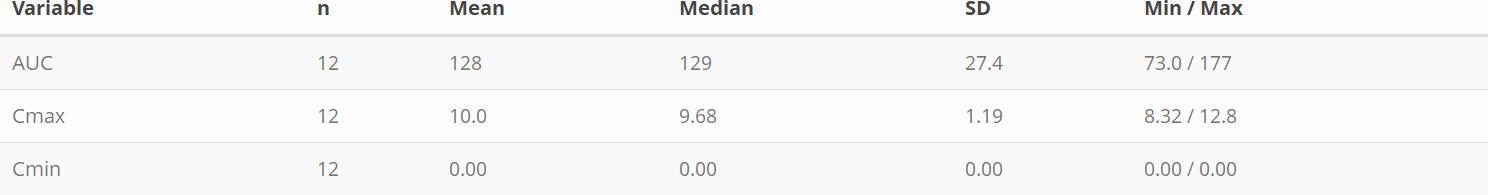
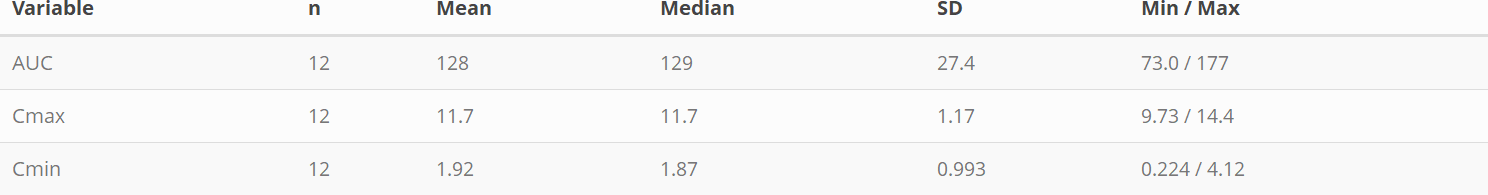
review

diff --git a/scripts/demo.html b/scripts/demo.html
@@ -7,7 +7,7 @@
 <meta name="viewport" content="width=device-width, initial-scale=1.0, user-scalable=yes">
 
 <meta name="author" content="Pawel Wiczling">
-<meta name="dcterms.date" content="2023-09-24">
+<meta name="dcterms.date" content="2023-09-25">
 
 <title>Simple demo</title>
 <style>
@@ -87,7 +87,7 @@ pre > code.sourceCode > span > a:first-child::before { text-decoration: underlin
   <ul class="collapse">
   <li><a href="#models-summary" id="toc-models-summary" class="nav-link" data-scroll-target="#models-summary">Models summary</a></li>
   <li><a href="#plot-model-fits" id="toc-plot-model-fits" class="nav-link" data-scroll-target="#plot-model-fits">Plot model fits</a></li>
-  <li><a href="#covariete-relationships" id="toc-covariete-relationships" class="nav-link" data-scroll-target="#covariete-relationships">Covariete relationships</a></li>
+  <li><a href="#covariate-relationships" id="toc-covariate-relationships" class="nav-link" data-scroll-target="#covariate-relationships">Covariate relationships</a></li>
   </ul></li>
   <li><a href="#simulations-using-mrgsolve" id="toc-simulations-using-mrgsolve" class="nav-link" data-scroll-target="#simulations-using-mrgsolve">Simulations using mrgsolve</a></li>
   <li><a href="#recreate-nonmem-fit-using-mrgsolve" id="toc-recreate-nonmem-fit-using-mrgsolve" class="nav-link" data-scroll-target="#recreate-nonmem-fit-using-mrgsolve">Recreate NONMEM fit using mrgsolve</a></li>
@@ -118,7 +118,7 @@ pre > code.sourceCode > span > a:first-child::before { text-decoration: underlin
     <div>
     <div class="quarto-title-meta-heading">Published</div>
     <div class="quarto-title-meta-contents">
-      <p class="date">September 24, 2023</p>
+      <p class="date">September 25, 2023</p>
     </div>
   </div>
   
@@ -130,7 +130,7 @@ pre > code.sourceCode > span > a:first-child::before { text-decoration: underlin
 
 <section id="introduction" class="level1">
 <h1>Introduction</h1>
-<p>Simple demo demonstrating the use of NONMEM to fit theoph data using bbr package</p>
+<p>Simple demo demonstrating the use of NONMEM to fit theoph data using bbr package. It’s based on <a href="https://merge.metrumrg.com/expo/expo1-nonmem-foce/">MetrumRG Ecosystem</a>.</p>
 <div class="cell">
 <details>
 <summary>Code</summary>
@@ -695,8 +695,8 @@ pre > code.sourceCode > span > a:first-child::before { text-decoration: underlin
 </div>
 </div>
 </section>
-<section id="covariete-relationships" class="level2">
-<h2 class="anchored" data-anchor-id="covariete-relationships">Covariete relationships</h2>
+<section id="covariate-relationships" class="level2">
+<h2 class="anchored" data-anchor-id="covariate-relationships">Covariate relationships</h2>
 <div class="cell">
 <details>
 <summary>Code</summary>
@@ -1116,12 +1116,13 @@ Transformation introduced infinite values in continuous y-axis</code></pre>
 </section>
 <section id="auc-cmax-cmin" class="level1">
 <h1>AUC, Cmax, Cmin</h1>
+<p>Simulated basic summaries of PK profile at steady-state conditions:</p>
 <div class="cell">
 <details>
 <summary>Code</summary>
 <div class="sourceCode cell-code" id="cb65"><pre class="sourceCode r code-with-copy"><code class="sourceCode r"><span id="cb65-1"><a href="#cb65-1" aria-hidden="true" tabindex="-1"></a>dose_rec <span class="ot">&lt;-</span> <span class="fu">filter</span>(join_df, EVID<span class="sc">==</span><span class="dv">1</span>) <span class="sc">%&gt;%</span></span>
 <span id="cb65-2"><a href="#cb65-2" aria-hidden="true" tabindex="-1"></a>  <span class="fu">distinct</span>(ID,AMT,ETA1,ETA2,ETA3) <span class="sc">%&gt;%</span> </span>
-<span id="cb65-3"><a href="#cb65-3" aria-hidden="true" tabindex="-1"></a>  <span class="fu">mutate</span>(<span class="at">II =</span> <span class="dv">24</span>, <span class="at">SS =</span> <span class="dv">1</span>, <span class="at">TIME =</span> <span class="dv">0</span>, <span class="at">EVID =</span> <span class="dv">1</span>, <span class="at">CMT =</span> <span class="dv">1</span>)</span>
+<span id="cb65-3"><a href="#cb65-3" aria-hidden="true" tabindex="-1"></a>  <span class="fu">mutate</span>(<span class="at">II =</span> <span class="dv">24</span>, <span class="at">SS =</span> <span class="dv">1</span>, <span class="at">TIME =</span> <span class="dv">0</span>, <span class="at">EVID =</span> <span class="dv">1</span>, <span class="at">CMT =</span> <span class="dv">2</span>)</span>
 <span id="cb65-4"><a href="#cb65-4" aria-hidden="true" tabindex="-1"></a></span>
 <span id="cb65-5"><a href="#cb65-5" aria-hidden="true" tabindex="-1"></a>simmod <span class="ot">&lt;-</span> <span class="fu">update</span>(simmod, <span class="at">delta =</span> <span class="fl">0.1</span>, <span class="at">end =</span> <span class="dv">24</span>)</span>
 <span id="cb65-6"><a href="#cb65-6" aria-hidden="true" tabindex="-1"></a></span>
@@ -1133,28 +1134,29 @@ Transformation introduced infinite values in continuous y-axis</code></pre>
 <span id="cb65-12"><a href="#cb65-12" aria-hidden="true" tabindex="-1"></a>maxmin <span class="ot">&lt;-</span> </span>
 <span id="cb65-13"><a href="#cb65-13" aria-hidden="true" tabindex="-1"></a>  out <span class="sc">%&gt;%</span> </span>
 <span id="cb65-14"><a href="#cb65-14" aria-hidden="true" tabindex="-1"></a>  <span class="fu">group_by</span>(ID) <span class="sc">%&gt;%</span> </span>
-<span id="cb65-15"><a href="#cb65-15" aria-hidden="true" tabindex="-1"></a>  <span class="fu">summarise</span>(<span class="at">Cmax =</span> <span class="fu">max</span>(IPRED), <span class="at">Cmin =</span> <span class="fu">min</span>(IPRED), <span class="at">.groups =</span> <span class="st">"drop"</span>)</span>
-<span id="cb65-16"><a href="#cb65-16" aria-hidden="true" tabindex="-1"></a></span>
-<span id="cb65-17"><a href="#cb65-17" aria-hidden="true" tabindex="-1"></a>auc <span class="ot">&lt;-</span> </span>
-<span id="cb65-18"><a href="#cb65-18" aria-hidden="true" tabindex="-1"></a>  out <span class="sc">%&gt;%</span> </span>
-<span id="cb65-19"><a href="#cb65-19" aria-hidden="true" tabindex="-1"></a>  <span class="fu">group_by</span>(ID) <span class="sc">%&gt;%</span> </span>
-<span id="cb65-20"><a href="#cb65-20" aria-hidden="true" tabindex="-1"></a>  <span class="fu">summarise</span>(<span class="at">AUC =</span> <span class="fu">trapz</span>(TIME, IPRED), <span class="at">.groups =</span> <span class="st">"drop"</span>)</span>
-<span id="cb65-21"><a href="#cb65-21" aria-hidden="true" tabindex="-1"></a></span>
-<span id="cb65-22"><a href="#cb65-22" aria-hidden="true" tabindex="-1"></a>pk <span class="ot">&lt;-</span> <span class="fu">left_join</span>(maxmin, auc, <span class="at">by =</span> <span class="fu">c</span>(<span class="st">"ID"</span>))</span>
-<span id="cb65-23"><a href="#cb65-23" aria-hidden="true" tabindex="-1"></a></span>
-<span id="cb65-24"><a href="#cb65-24" aria-hidden="true" tabindex="-1"></a>pmtab <span class="ot">&lt;-</span> <span class="fu">pt_cont_long</span>(</span>
-<span id="cb65-25"><a href="#cb65-25" aria-hidden="true" tabindex="-1"></a>  pk, </span>
-<span id="cb65-26"><a href="#cb65-26" aria-hidden="true" tabindex="-1"></a>  <span class="at">cols =</span> <span class="st">"AUC, Cmax, Cmin"</span> ,</span>
-<span id="cb65-27"><a href="#cb65-27" aria-hidden="true" tabindex="-1"></a>  <span class="at">summarize_all =</span> <span class="cn">FALSE</span></span>
-<span id="cb65-28"><a href="#cb65-28" aria-hidden="true" tabindex="-1"></a>)</span>
-<span id="cb65-29"><a href="#cb65-29" aria-hidden="true" tabindex="-1"></a></span>
-<span id="cb65-30"><a href="#cb65-30" aria-hidden="true" tabindex="-1"></a>pmtab<span class="sc">$</span>data <span class="sc">%&gt;%</span></span>
-<span id="cb65-31"><a href="#cb65-31" aria-hidden="true" tabindex="-1"></a>  kableExtra<span class="sc">::</span><span class="fu">kable</span>(<span class="st">"html"</span>) <span class="sc">%&gt;%</span></span>
-<span id="cb65-32"><a href="#cb65-32" aria-hidden="true" tabindex="-1"></a>   kableExtra<span class="sc">::</span><span class="fu">kable_styling</span>(<span class="st">"striped"</span>) <span class="sc">%&gt;%</span></span>
-<span id="cb65-33"><a href="#cb65-33" aria-hidden="true" tabindex="-1"></a>  kableExtra<span class="sc">::</span><span class="fu">save_kable</span>(<span class="fu">paste0</span>(here<span class="sc">::</span><span class="fu">here</span>(<span class="st">"deliv/tables"</span>),<span class="st">"/auccmaxcmin"</span>, <span class="st">".png"</span>),<span class="at">zoom =</span> <span class="fl">1.5</span>)</span>
-<span id="cb65-34"><a href="#cb65-34" aria-hidden="true" tabindex="-1"></a></span>
-<span id="cb65-35"><a href="#cb65-35" aria-hidden="true" tabindex="-1"></a>pmtab<span class="sc">$</span>data <span class="sc">%&gt;%</span> </span>
-<span id="cb65-36"><a href="#cb65-36" aria-hidden="true" tabindex="-1"></a>  kableExtra<span class="sc">::</span><span class="fu">kable</span>()</span></code><button title="Copy to Clipboard" class="code-copy-button"><i class="bi"></i></button></pre></div>
+<span id="cb65-15"><a href="#cb65-15" aria-hidden="true" tabindex="-1"></a>  <span class="fu">filter</span>(TIME<span class="sc">&gt;</span><span class="dv">0</span>) <span class="sc">%&gt;%</span> </span>
+<span id="cb65-16"><a href="#cb65-16" aria-hidden="true" tabindex="-1"></a>  <span class="fu">summarise</span>(<span class="at">Cmax =</span> <span class="fu">max</span>(IPRED), <span class="at">Cmin =</span> <span class="fu">min</span>(IPRED), <span class="at">.groups =</span> <span class="st">"drop"</span>)</span>
+<span id="cb65-17"><a href="#cb65-17" aria-hidden="true" tabindex="-1"></a></span>
+<span id="cb65-18"><a href="#cb65-18" aria-hidden="true" tabindex="-1"></a>auc <span class="ot">&lt;-</span> </span>
+<span id="cb65-19"><a href="#cb65-19" aria-hidden="true" tabindex="-1"></a>  out <span class="sc">%&gt;%</span> </span>
+<span id="cb65-20"><a href="#cb65-20" aria-hidden="true" tabindex="-1"></a>  <span class="fu">group_by</span>(ID) <span class="sc">%&gt;%</span> </span>
+<span id="cb65-21"><a href="#cb65-21" aria-hidden="true" tabindex="-1"></a>  <span class="fu">summarise</span>(<span class="at">AUC =</span> <span class="fu">trapz</span>(TIME, IPRED), <span class="at">.groups =</span> <span class="st">"drop"</span>)</span>
+<span id="cb65-22"><a href="#cb65-22" aria-hidden="true" tabindex="-1"></a></span>
+<span id="cb65-23"><a href="#cb65-23" aria-hidden="true" tabindex="-1"></a>pk <span class="ot">&lt;-</span> <span class="fu">left_join</span>(maxmin, auc, <span class="at">by =</span> <span class="fu">c</span>(<span class="st">"ID"</span>))</span>
+<span id="cb65-24"><a href="#cb65-24" aria-hidden="true" tabindex="-1"></a></span>
+<span id="cb65-25"><a href="#cb65-25" aria-hidden="true" tabindex="-1"></a>pmtab <span class="ot">&lt;-</span> <span class="fu">pt_cont_long</span>(</span>
+<span id="cb65-26"><a href="#cb65-26" aria-hidden="true" tabindex="-1"></a>  pk, </span>
+<span id="cb65-27"><a href="#cb65-27" aria-hidden="true" tabindex="-1"></a>  <span class="at">cols =</span> <span class="st">"AUC, Cmax, Cmin"</span> ,</span>
+<span id="cb65-28"><a href="#cb65-28" aria-hidden="true" tabindex="-1"></a>  <span class="at">summarize_all =</span> <span class="cn">FALSE</span></span>
+<span id="cb65-29"><a href="#cb65-29" aria-hidden="true" tabindex="-1"></a>)</span>
+<span id="cb65-30"><a href="#cb65-30" aria-hidden="true" tabindex="-1"></a></span>
+<span id="cb65-31"><a href="#cb65-31" aria-hidden="true" tabindex="-1"></a>pmtab<span class="sc">$</span>data <span class="sc">%&gt;%</span></span>
+<span id="cb65-32"><a href="#cb65-32" aria-hidden="true" tabindex="-1"></a>  kableExtra<span class="sc">::</span><span class="fu">kable</span>(<span class="st">"html"</span>) <span class="sc">%&gt;%</span></span>
+<span id="cb65-33"><a href="#cb65-33" aria-hidden="true" tabindex="-1"></a>   kableExtra<span class="sc">::</span><span class="fu">kable_styling</span>(<span class="st">"striped"</span>) <span class="sc">%&gt;%</span></span>
+<span id="cb65-34"><a href="#cb65-34" aria-hidden="true" tabindex="-1"></a>  kableExtra<span class="sc">::</span><span class="fu">save_kable</span>(<span class="fu">paste0</span>(here<span class="sc">::</span><span class="fu">here</span>(<span class="st">"deliv/tables"</span>),<span class="st">"/auccmaxcmin"</span>, <span class="st">".png"</span>),<span class="at">zoom =</span> <span class="fl">1.5</span>)</span>
+<span id="cb65-35"><a href="#cb65-35" aria-hidden="true" tabindex="-1"></a></span>
+<span id="cb65-36"><a href="#cb65-36" aria-hidden="true" tabindex="-1"></a>pmtab<span class="sc">$</span>data <span class="sc">%&gt;%</span> </span>
+<span id="cb65-37"><a href="#cb65-37" aria-hidden="true" tabindex="-1"></a>  kableExtra<span class="sc">::</span><span class="fu">kable</span>()</span></code><button title="Copy to Clipboard" class="code-copy-button"><i class="bi"></i></button></pre></div>
 </details>
 <div class="cell-output-display">
 <table data-quarto-postprocess="true" class="table table-sm table-striped small">
@@ -1180,18 +1182,18 @@ Transformation introduced infinite values in continuous y-axis</code></pre>
 <tr class="even">
 <td style="text-align: left;">Cmax</td>
 <td style="text-align: left;">12</td>
-<td style="text-align: left;">10.0</td>
-<td style="text-align: left;">9.68</td>
-<td style="text-align: left;">1.19</td>
-<td style="text-align: left;">8.32 / 12.8</td>
+<td style="text-align: left;">11.7</td>
+<td style="text-align: left;">11.7</td>
+<td style="text-align: left;">1.17</td>
+<td style="text-align: left;">9.73 / 14.4</td>
 </tr>
 <tr class="odd">
 <td style="text-align: left;">Cmin</td>
 <td style="text-align: left;">12</td>
-<td style="text-align: left;">0.00</td>
-<td style="text-align: left;">0.00</td>
-<td style="text-align: left;">0.00</td>
-<td style="text-align: left;">0.00 / 0.00</td>
+<td style="text-align: left;">1.92</td>
+<td style="text-align: left;">1.87</td>
+<td style="text-align: left;">0.993</td>
+<td style="text-align: left;">0.224 / 4.12</td>
 </tr>
 </tbody>
 </table>

diff --git a/README.md b/README.md
@@ -1,0 +1,5 @@
+# theopd
+
+Simple demo demonstrating the use of NONMEM to fit theoph data using bbr package
+
+script./demo.qmd is the main script (quarto document)
